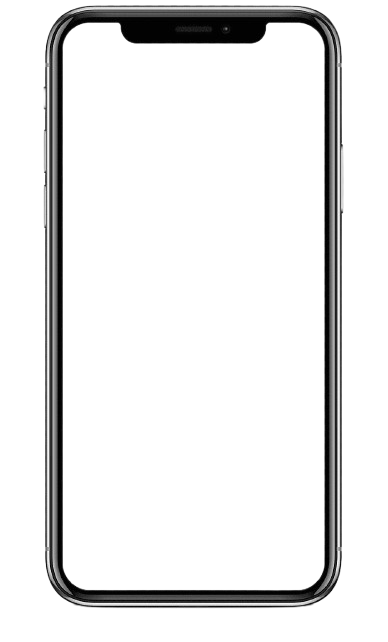
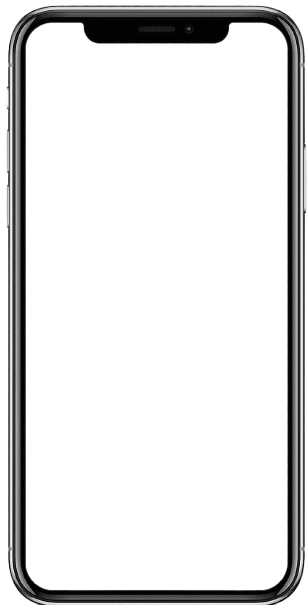
feat: ajustar diseño del simulador de celular y mejorar la visualización del subdominio

Changed region(s): [[0.0, 0.0, 1.0, 1.0]]

diff --git a/components/products/ProductContainer.tsx b/components/products/ProductContainer.tsx
@@ -21,7 +21,7 @@ export default function ProductContainer({
 
   return (
    <div className="flex-1 h-screen shadow-md">
-  <div className="max-w-7xl mx-auto grid grid-cols-1 lg:grid-cols-3 h-full">
+  <div className="w-full mx-auto grid grid-cols-1 lg:grid-cols-3 h-full">
     
     {/* SECCIÓN SCROLLEABLE */}
     <div className="lg:col-span-2 h-full  overflow-y-auto bg-surface-base-secundary relative">
@@ -46,21 +46,32 @@ export default function ProductContainer({
 
     {/* SECCIÓN FIJA SIN SCROLL */}
     <div className="lg:col-span-1 bg-[#f4f6f8] h-screen overflow-hidden">
-      <div className="flex justify-center items-center h-full">
-        {/* Simulador de Celular */}
-        <div
-          className="relative"
-          style={{ width: "280px", height: "450px" }}
-        >
-          <Image
-            src="/phone.png"
-            alt="Simulador de Celular"
-            layout="fill"
-            objectFit="contain"
-          />
-        </div>
-      </div>
+  <div className="flex justify-center items-center h-full">
+    {/* Simulador de Celular */}
+    <div className="relative p-2" style={{ width: "280px", height: "600px" }}>
+      <Image
+        src="/phone.png"
+        alt="Simulador de Celular"
+        width={270}
+        height={590}
+        objectFit="cover"
+        className="pointer-events-none absolute z-50"
+      />
+
+      {/* Vista del subdominio dentro del teléfono */}
+      <iframe
+        src={`https://${user?.domain}.fluvi.shop/menu`} // 👈 Aquí pones dinámicamente el subdominio
+        className="absolute  top-[29px] left-[32px]" // ajusta estos valores para que encaje en la pantalla del teléfono
+        width="227" // ancho del área visible dentro del marco
+        height="495" // alto del área visible dentro del marco
+        style={{
+          border: "none",
+          borderRadius: "20px",
+        }}
+      ></iframe>
     </div>
+  </div>
+</div>
   </div>
 </div>
 
